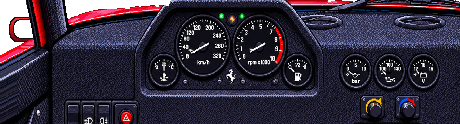
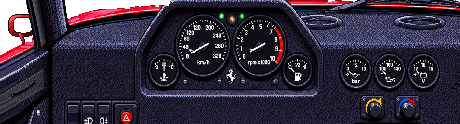
v0.53.5: lado esquerdo da cabine da Fúria F4 refeito (retrovisor em gota na cor do carro, borracha preta na janela, porta com feltro e alça)
Claude-Session: https://claude.ai/code/session_01MLD9VR7gkmY4w6a9beZcp6

Changed region(s): [[0.0, 0.0, 0.1217, 0.3871], [0.0, 0.5565, 0.1217, 0.9194]]

diff --git a/src/cockpit.ts b/src/cockpit.ts
@@ -125,7 +125,7 @@ const COCKPIT_ART: Record<string, CockpitArt> = {
   // de verdade (foto do Victor, tools/ref/f40_gauges.py): velocímetro 0-360 com hodômetros,
   // conta-giros 0-100 x100 com marcas vermelhas, água e turbo embaixo, luzes vermelhas; ponteiros brancos
   f40: { dash: dashF40Png, top: topF40Png, wheel: wheelF40Png, pivot: [128, 105], wheelTop: 12, tells: null,
-    glass: { at: [20, 105], thr: 256 }, pod: { x: 235, y: 23, r: 10, face: 'black', bezel: 'black', lit: 'green' }, radar: [222, 6] /* por fora: a coluna e a porta ficam na frente dele (tools/ref/f40_mirror_fix.py) */, glow: '110,230,140', glowK: 0.5, // retrovisor desenhado (tools/qa/add_mirror.py)
+    glass: { at: [22, 101], thr: 256 }, pod: { x: 235, y: 23, r: 10, face: 'black', bezel: 'black', lit: 'green' }, radar: [222, 6] /* retrovisor em gota na cor da carroceria, por fora (a moldura fica na frente): tools/ref/f40_left_redo.py */, glow: '110,230,140', glowK: 0.5, // lado esquerdo refeito (tools/ref/f40_left_redo.py)
     // à noite números e marcações acendem em verde (o fundo preto continua preto), ponteiros também
     facesLit: '110,236,140', litNeedles: true,
     faces: [{ src: cp('f40-cluster'), src2: cp('f40-cluster-2x'), x: 44.5, y: 7.5, w: 169, h: 84 },

diff --git a/tools/ref/f40_left_redo.py b/tools/ref/f40_left_redo.py
@@ -1,0 +1,155 @@
+"""Fúria F4 (F40): lado esquerdo da cabine refeito (pedido do Victor: porta e retrovisor feios).
+- moldura da janela: a faixa vermelha em "V" (moldura externa vermelha subindo pela coluna e virando
+  no alto) vira a borracha preta da janela, com o mesmo sombreado convertido pelo brilho;
+- retrovisor da F40 real: carcaça em gota na cor da carroceria, presa por uma haste curta na porta,
+  no canto dianteiro de baixo da janela, do lado de FORA (a coluna fica na frente dele); o vidro é
+  transparente (o jogo põe a vista de trás: glass.at em cockpit.ts);
+- porta: forro de feltro com costura e a alça de puxar (cinta preta), seguindo a inclinação da soleira.
+Roda sobre os PNG atuais (src/assets/cockpit/f40-top.png e f40-dash.png) só uma vez: guarda os
+originais em <pasta> na primeira vez e parte deles nas seguintes.
+Uso: python3 tools/ref/f40_left_redo.py <pasta para guardar/ler os originais>
+"""
+import os
+import shutil
+import sys
+
+import numpy as np
+from PIL import Image, ImageDraw
+
+HERE = os.path.dirname(__file__)
+C = os.path.join(HERE, '..', '..', 'src/assets/cockpit/f40-')
+S = 8  # supersample do desenho do retrovisor
+
+
+def stack(a, b):
+    return np.concatenate([np.array(Image.open(a).convert('RGBA')), np.array(Image.open(b).convert('RGBA'))]).astype(int)
+
+
+def save(c):
+    c = np.clip(c, 0, 255).astype(np.uint8)
+    Image.fromarray(c[:76]).save(C + 'top.png', optimize=True)
+    Image.fromarray(c[76:]).save(C + 'dash.png', optimize=True)
+
+
+def band_left(y):
+    """borda esquerda da faixa da moldura (vermelha na arte original) na linha y"""
+    return 10 + 0.2 * y
+
+
+def sill_top(x):
+    """primeira linha da soleira (vermelha, por fora) na coluna x"""
+    return 131 - 0.5 * x
+
+
+def main():
+    keep = sys.argv[1]
+    os.makedirs(keep, exist_ok=True)
+    for p in ('top', 'dash'):
+        if not os.path.exists(os.path.join(keep, p + '.png')):
+            shutil.copy(C + p + '.png', os.path.join(keep, p + '.png'))
+    c = stack(os.path.join(keep, 'top.png'), os.path.join(keep, 'dash.png'))
+    H, W = c.shape[:2]
+    yy, xx = np.mgrid[0:H, 0:W]
+    r, g, b, a = c[..., 0], c[..., 1], c[..., 2], c[..., 3]
+    op = a > 0
+
+    # 1) retrovisor antigo (anel vermelho dentro da janela) sai: a janela fica toda transparente
+    win = (xx < band_left(yy)) & (yy > 40) & (yy < sill_top(xx)) & (xx < 31)
+    old_mirror = win & (yy >= 88) & (yy <= 119)
+    c[old_mirror, 3] = 0
+    # o pé do anel antigo encostado na soleira/coluna (x 24..31, y 112..119)
+    foot = (xx >= 22) & (xx <= 31) & (yy >= 112) & (yy <= 117) & (xx < band_left(yy))
+    c[foot, 3] = 0
+
+    # 2) moldura em "V": vermelho da faixa da coluna e do alto à esquerda vira borracha preta
+    red = op & (r > 28) & (r > g * 2.2) & (r > b * 1.6)
+    frame = red & (yy < 124) & (xx < 52) & ~((yy >= sill_top(xx) - 1) & (xx < 34))
+    lum = (r * 0.6 + g * 0.3 + b * 0.1)[frame]
+    t = np.clip((lum - 20) / 150, 0, 1)
+    ramp = np.array([[8, 8, 12], [22, 22, 30], [40, 40, 52], [62, 62, 78], [84, 86, 104]], float)
+    k = t * (len(ramp) - 1)
+    i0 = np.floor(k).astype(int).clip(0, len(ramp) - 2)
+    f = (k - i0)[:, None]
+    c[frame, :3] = (ramp[i0] * (1 - f) + ramp[i0 + 1] * f).round().astype(int)
+
+    # 3) retrovisor novo: carcaça em gota achatada (quase retangular, cantos bem redondos) na cor da
+    # carroceria; visto de dentro e de trás, aparece a parede interna da carcaça do lado de dentro
+    # (direita, mais escura); haste curta e inclinada até a porta; vidro vazado
+    cx, cy = 22.0, 101.5  # o mais para dentro possível: no celular a borda esquerda da arte fica fora da tela
+    ox = np.arange(W * S) / S + 0.5 / S
+    oy = np.arange(H * S) / S + 0.5 / S
+    X, Y = np.meshgrid(ox, oy)
+
+    def blob(x0, y0, rx, ry, p=3.0):
+        return (np.abs((X - x0) / rx) ** p + np.abs((Y - y0) / ry) ** p) <= 1
+
+    outer = blob(cx, cy, 14.0, 11.5)
+    glass_m = blob(cx + 1.2, cy - 0.4, 9.6, 7.5)  # mais para dentro: a carcaça aparece mais grossa do lado de fora
+    # haste: da base da carcaça (lado de dentro) descendo inclinada até a soleira
+    t = np.clip((Y - (cy + 8)) / max(1.0, sill_top(24) + 1 - (cy + 8)), 0, 1)
+    xc = 21.0 + t * 3.0
+    stalk = (np.abs(X - xc) <= 2.2 - 0.6 * t) & (Y >= cy + 8) & (Y <= sill_top(24) + 1.5)
+    shape = outer | stalk
+
+    def down(m):
+        return m[S // 2::S, S // 2::S]
+
+    sh, gl, st = down(shape), down(glass_m), down(stalk)
+    pad = np.pad(sh, 1)
+    edge = sh & ~(pad[:-2, 1:-1] & pad[2:, 1:-1] & pad[1:-1, :-2] & pad[1:-1, 2:])
+    gpad = np.pad(gl, 1)
+    lip = sh & ~gl & (gpad[:-2, 1:-1] | gpad[2:, 1:-1] | gpad[1:-1, :-2] | gpad[1:-1, 2:])
+    body = sh & ~gl & ~edge & ~lip
+    reds = np.array([[86, 6, 10], [132, 10, 16], [180, 16, 22], [214, 34, 40], [240, 84, 86]])
+    nx, ny = (xx - cx) / 14, (yy - cy) / 11.5
+    light = -(nx * 0.55 + ny * 0.85)
+    lv = np.digitize(light, [-0.5, -0.05, 0.4, 0.8])
+    inner = body & (xx > cx + 6) & (yy > cy - 9) & (yy < cy + 9)  # parede interna (lado de dentro)
+    lv = np.where(inner, np.minimum(lv, 1), lv)
+    lv = np.where(st & ~edge, np.digitize(-(xx - xc[S // 2::S, S // 2::S]), [-1.2, -0.3, 0.4, 1.2]), lv)
+    mirror = np.zeros((H, W, 4), int)
+    mirror[body, :3] = reds[lv[body]]
+    mirror[lip, :3] = [40, 6, 10]
+    mirror[edge, :3] = [22, 4, 6]
+    mirror[sh & ~gl, 3] = 255
+    # só onde é a janela (por fora): a coluna, a moldura e a soleira ficam na frente
+    behind = (c[..., 3] == 0) | ((xx < band_left(yy)) & (yy < sill_top(xx) + 1))
+    put = (mirror[..., 3] > 0) & behind
+    c[put] = mirror[put]
+    # vidro: só onde era janela (a moldura, opaca, fecha o vidro do lado de dentro)
+    glass = gl & behind
+    c[glass, 3] = 0
+
+    # 4) porta: forro de feltro com costura e alça (cinta preta) na inclinação da soleira (desce
+    # 0,6 por coluna indo para a borda)
+    def ytop(x):
+        return 155 - 0.6 * x  # linha clara do alto da porta (friso) na arte
+
+    felt0, felt1 = 14, 34  # faixa do feltro abaixo do friso
+    door = (xx < 44) & (yy > ytop(xx) + felt0) & (yy < ytop(xx) + felt1) & (c[..., 3] > 0)
+    # feltro: a textura da própria arte, um pouco mais clara e acinzentada
+    lumd = c[door, :3].mean(1)
+    c[door, :3] = (np.stack([lumd] * 3, 1) * 0.7 + np.array([30, 30, 38])).clip(0, 255)
+    up = (xx < 44) & (np.abs(yy - (ytop(xx) + felt0)) < 0.5)
+    c[up & (c[..., 3] > 0), :3] = [16, 16, 22]
+    lo = (xx < 44) & (np.abs(yy - (ytop(xx) + felt1)) < 0.5)
+    c[lo & (c[..., 3] > 0), :3] = [74, 74, 88]
+    seam = (xx < 42) & (np.abs(yy - (ytop(xx) + felt0 + 2)) < 0.5) & (xx % 3 != 0)
+    c[seam & (c[..., 3] > 0), :3] = [88, 88, 104]
+    # alça de puxar: cinta preta presa nas duas pontas (parafusos), caída no meio, brilho em cima
+    for x in range(12, 36):
+        y = int(round(ytop(x) + felt0 + 8 + 2.2 * np.sin((x - 12) / 23 * np.pi)))
+        if c[y, x, 3]:
+            c[y - 1, x, :3] = [78, 78, 92]
+            c[y:y + 3, x, :3] = [12, 12, 16]
+            c[y + 3, x, :3] = [34, 34, 42]
+    for x in (12, 35):
+        y = int(round(ytop(x) + felt0 + 8))
+        c[y:y + 3, x - 1:x + 1, :3] = [10, 10, 12]
+        c[y + 1, x, :3] = [110, 110, 124]
+    save(c)
+    print('ok: retrovisor em', (int(cx), int(cy)))
+
+
+if __name__ == '__main__':
+    main()
